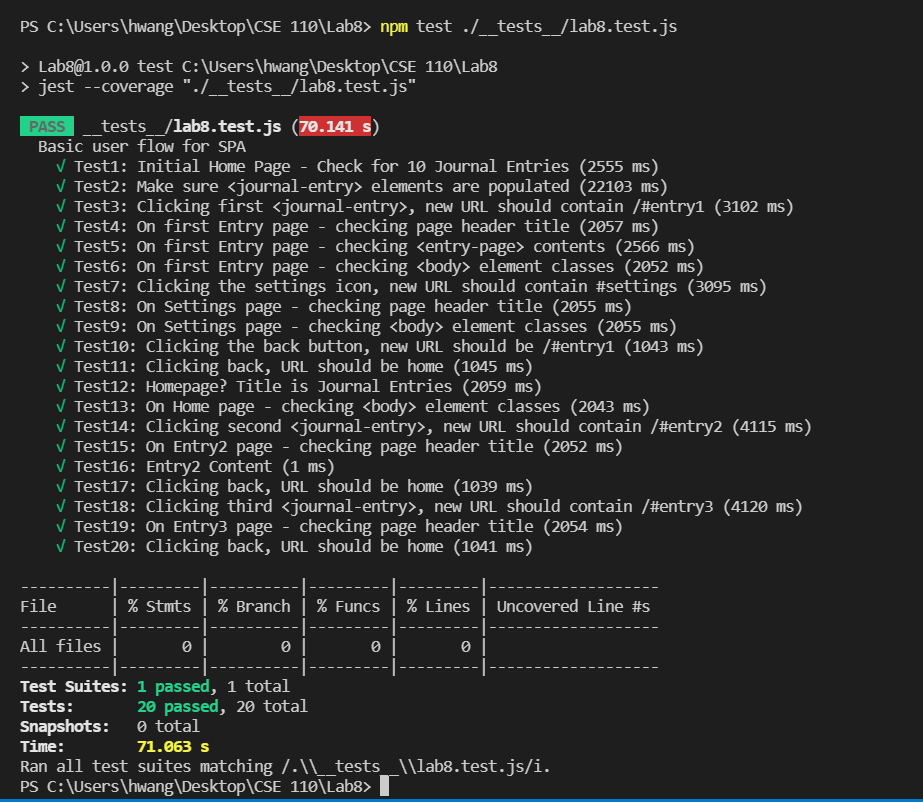
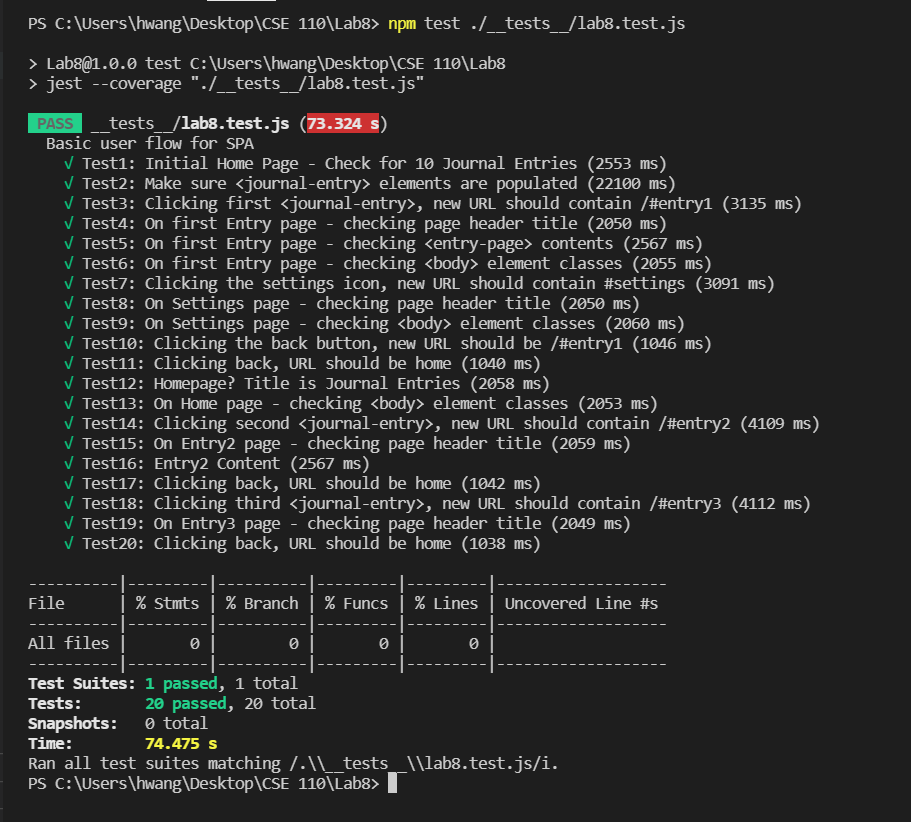
fun times 4

Changed region(s): [[0.0, 0.0, 1.0, 1.0]]

diff --git a/coverage/lcov-report/index.html b/coverage/lcov-report/index.html
@@ -23,30 +23,30 @@
         <div class='clearfix'>
             
             <div class='fl pad1y space-right2'>
-                <span class="strong">33.33% </span>
+                <span class="strong">Unknown% </span>
                 <span class="quiet">Statements</span>
-                <span class='fraction'>13/39</span>
+                <span class='fraction'>0/0</span>
             </div>
         
             
             <div class='fl pad1y space-right2'>
-                <span class="strong">21.43% </span>
+                <span class="strong">Unknown% </span>
                 <span class="quiet">Branches</span>
-                <span class='fraction'>3/14</span>
+                <span class='fraction'>0/0</span>
             </div>
         
             
             <div class='fl pad1y space-right2'>
-                <span class="strong">20% </span>
+                <span class="strong">Unknown% </span>
                 <span class="quiet">Functions</span>
-                <span class='fraction'>1/5</span>
+                <span class='fraction'>0/0</span>
             </div>
         
             
             <div class='fl pad1y space-right2'>
-                <span class="strong">33.33% </span>
+                <span class="strong">Unknown% </span>
                 <span class="quiet">Lines</span>
-                <span class='fraction'>13/39</span>
+                <span class='fraction'>0/0</span>
             </div>
         
             
@@ -55,7 +55,7 @@
             Press <em>n</em> or <em>j</em> to go to the next uncovered block, <em>b</em>, <em>p</em> or <em>k</em> for the previous block.
         </p>
     </div>
-    <div class='status-line low'></div>
+    <div class='status-line medium'></div>
     <div class="pad1">
 <table class="coverage-summary">
 <thead>
@@ -72,22 +72,7 @@
    <th data-col="lines_raw" data-type="number" data-fmt="html" class="abs"></th>
 </tr>
 </thead>
-<tbody><tr>
-	<td class="file low" data-value="router.js"><a href="router.js.html">router.js</a></td>
-	<td data-value="33.33" class="pic low">
-	<div class="chart"><div class="cover-fill" style="width: 33%"></div><div class="cover-empty" style="width: 67%"></div></div>
-	</td>
-	<td data-value="33.33" class="pct low">33.33%</td>
-	<td data-value="39" class="abs low">13/39</td>
-	<td data-value="21.43" class="pct low">21.43%</td>
-	<td data-value="14" class="abs low">3/14</td>
-	<td data-value="20" class="pct low">20%</td>
-	<td data-value="5" class="abs low">1/5</td>
-	<td data-value="33.33" class="pct low">33.33%</td>
-	<td data-value="39" class="abs low">13/39</td>
-	</tr>
-
-</tbody>
+<tbody></tbody>
 </table>
 </div>
                 <div class='push'></div><!-- for sticky footer -->
@@ -95,7 +80,7 @@
             <div class='footer quiet pad2 space-top1 center small'>
                 Code coverage generated by
                 <a href="https://istanbul.js.org/" target="_blank">istanbul</a>
-                at Sat May 22 2021 00:06:15 GMT-0700 (Pacific Daylight Time)
+                at Sat May 22 2021 16:49:29 GMT-0700 (Pacific Daylight Time)
             </div>
         </div>
         <script src="prettify.js"></script>

diff --git a/__tests__/lab8.test.js b/__tests__/lab8.test.js
@@ -201,9 +201,35 @@ describe('Basic user flow for SPA ', () => {
 
   // define and implement test16: Verify the entry page contents is correct when clicking on the second entry
   it('Test16: Entry2 Content', async () => {
-    
+    let eTitle = await page.$("entry-page");
+    let eTitleData = await eTitle.getProperty("entry");
+    let eTitleJSON = await eTitleData.jsonValue();
 
-  });
+    let allContentCorrect = true;
+
+    if (eTitleJSON.title != "Run, Forrest! Run!") {
+      allContentCorrect = false;
+    }
+
+    if (eTitleJSON.date != "4/26/2021") {
+      allContentCorrect = false;
+    }
+
+    if (eTitleJSON.content != "Mama always said life was like a box of chocolates. You never know what you're gonna get.") {
+      allContentCorrect = false;
+    }
+
+    if (eTitleJSON.image.src != "https://s.abcnews.com/images/Entertainment/HT_forrest_gump_ml_140219_4x3_992.jpg") {
+      allContentCorrect = false;
+    }
+
+    if (eTitleJSON.image.alt != "forrest running") {
+      allContentCorrect = false;
+    }
+
+    expect(allContentCorrect).toBe(true);
+
+  }, 10000);
 
   // create your own test 17
   it ("Test17: Clicking back, URL should be home", async() => {
